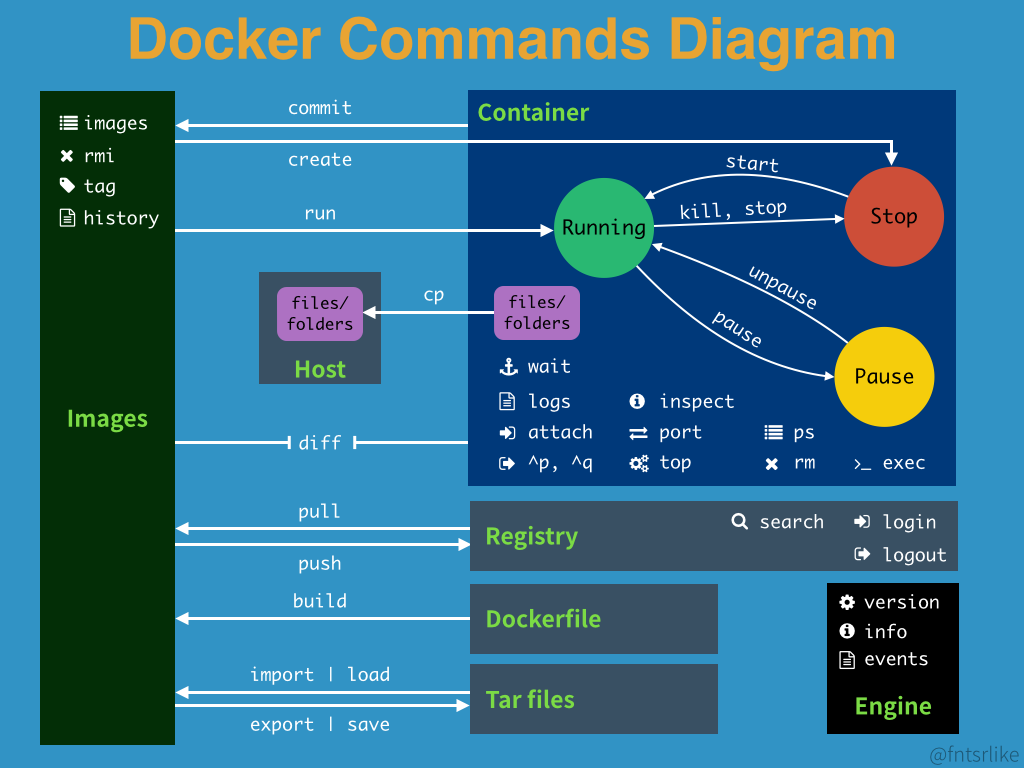
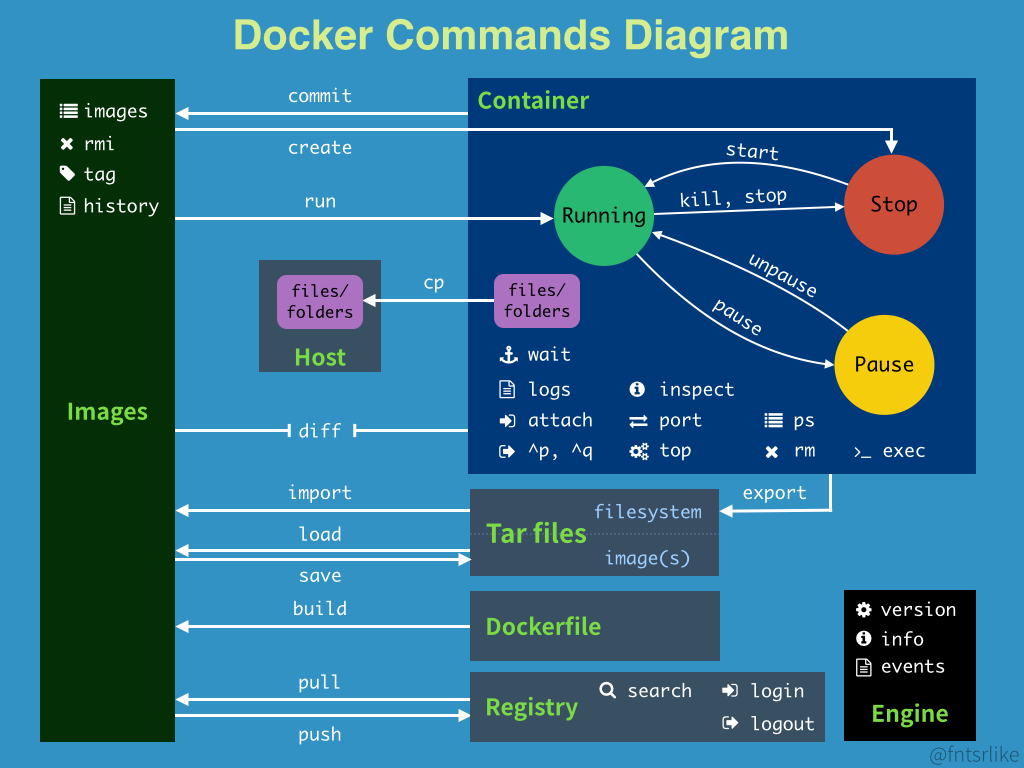
Site updated at 2014-12-16 16:37:32 UTC

Changed region(s): [[0.0312, 0.0, 0.9688, 0.9688], [0.1875, 0.5312, 0.4375, 0.5938], [0.0625, 0.5312, 0.1562, 0.5625]]

diff --git a/articles/2014/12/15/docker-command-diagram/index.html b/articles/2014/12/15/docker-command-diagram/index.html
@@ -9,8 +9,7 @@
   <meta name="author" content="Ruoshi Ling">
 
   
-  <meta name="description" content="Docker 指令示意圖 看到《Docker —— 從入門到實踐》正體中文版附錄一：命令查詢裏有「一張圖總結 Docker 的命令」的圖，一時興起，就嘗試重畫一張圖，把所有指令都排進去。 若有什麼認為需要修正的，歡迎在本篇文章留言、討論。
-">
+  <meta name="description" content="Docker 指令示意圖 看到《Docker —— 從入門到實踐》正體中文版附錄一：命令查詢裏有「一張圖總結 Docker 的命令」的圖，一時興起，就嘗試重畫一張圖，把所有指令都排進去。 若有什麼認為需要修正的，歡迎在本篇文章留言、討論。 Update Log 2014-12-14 經 @ &hellip;">
   
 
   <!-- http://t.co/dKP3o1e -->
@@ -128,11 +127,24 @@
 
 <div class="entry-content"><h2>Docker 指令示意圖</h2>
 
-<p><a href="/images/posts/2014-12-15-docker-command-diagram/1_1.png?1418651683"><img src="/images/posts/2014-12-15-docker-command-diagram/1_1.png?1418651683" width="512" height="384"></a></p>
+<p><a href="/images/posts/2014-12-15-docker-command-diagram/1_1.png?1418747640"><img src="/images/posts/2014-12-15-docker-command-diagram/1_1.png?1418747640" width="512" height="384"></a></p>
 
 <p>看到《Docker —— 從入門到實踐》正體中文版<a href="http://philipzheng.gitbooks.io/docker_practice/content/appendix_command/README.html">附錄一：命令查詢</a>裏有「一張圖總結 Docker 的命令」的圖，一時興起，就嘗試重畫一張圖，把所有指令都排進去。</p>
 
 <p>若有什麼認為需要修正的，歡迎在本篇文章留言、討論。</p>
+
+<!-- more -->
+
+
+<h1>Update Log</h1>
+
+<h3>2014-12-14</h3>
+
+<ul>
+<li>經 @yorkoliu 指出，修正了 export 的關係。並將 Tar files 分成兩個部分。</li>
+<li>修改標題顏色。</li>
+</ul>
+
 </div>
 
 

diff --git a/index.html b/index.html
@@ -9,8 +9,7 @@
   <meta name="author" content="Ruoshi Ling">
 
   
-  <meta name="description" content="Docker 指令示意圖 看到《Docker —— 從入門到實踐》正體中文版附錄一：命令查詢裏有「一張圖總結 Docker 的命令」的圖，一時興起，就嘗試重畫一張圖，把所有指令都排進去。 若有什麼認為需要修正的，歡迎在本篇文章留言、討論。
-">
+  <meta name="description" content="Docker 指令示意圖 看到《Docker —— 從入門到實踐》正體中文版附錄一：命令查詢裏有「一張圖總結 Docker 的命令」的圖，一時興起，就嘗試重畫一張圖，把所有指令都排進去。 若有什麼認為需要修正的，歡迎在本篇文章留言、討論。 ">
   
 
   <!-- http://t.co/dKP3o1e -->
@@ -131,13 +130,18 @@
 
   <div class="entry-content"><h2>Docker 指令示意圖</h2>
 
-<p><a href="/images/posts/2014-12-15-docker-command-diagram/1_1.png?1418651683"><img src="/images/posts/2014-12-15-docker-command-diagram/1_1.png?1418651683" width="512" height="384"></a></p>
+<p><a href="/images/posts/2014-12-15-docker-command-diagram/1_1.png?1418747640"><img src="/images/posts/2014-12-15-docker-command-diagram/1_1.png?1418747640" width="512" height="384"></a></p>
 
 <p>看到《Docker —— 從入門到實踐》正體中文版<a href="http://philipzheng.gitbooks.io/docker_practice/content/appendix_command/README.html">附錄一：命令查詢</a>裏有「一張圖總結 Docker 的命令」的圖，一時興起，就嘗試重畫一張圖，把所有指令都排進去。</p>
 
 <p>若有什麼認為需要修正的，歡迎在本篇文章留言、討論。</p>
+
 </div>
   
+  
+    <footer>
+      <a rel="full-article" href="/articles/2014/12/15/docker-command-diagram/">Read on &rarr;</a>
+    </footer>
   
 
 
